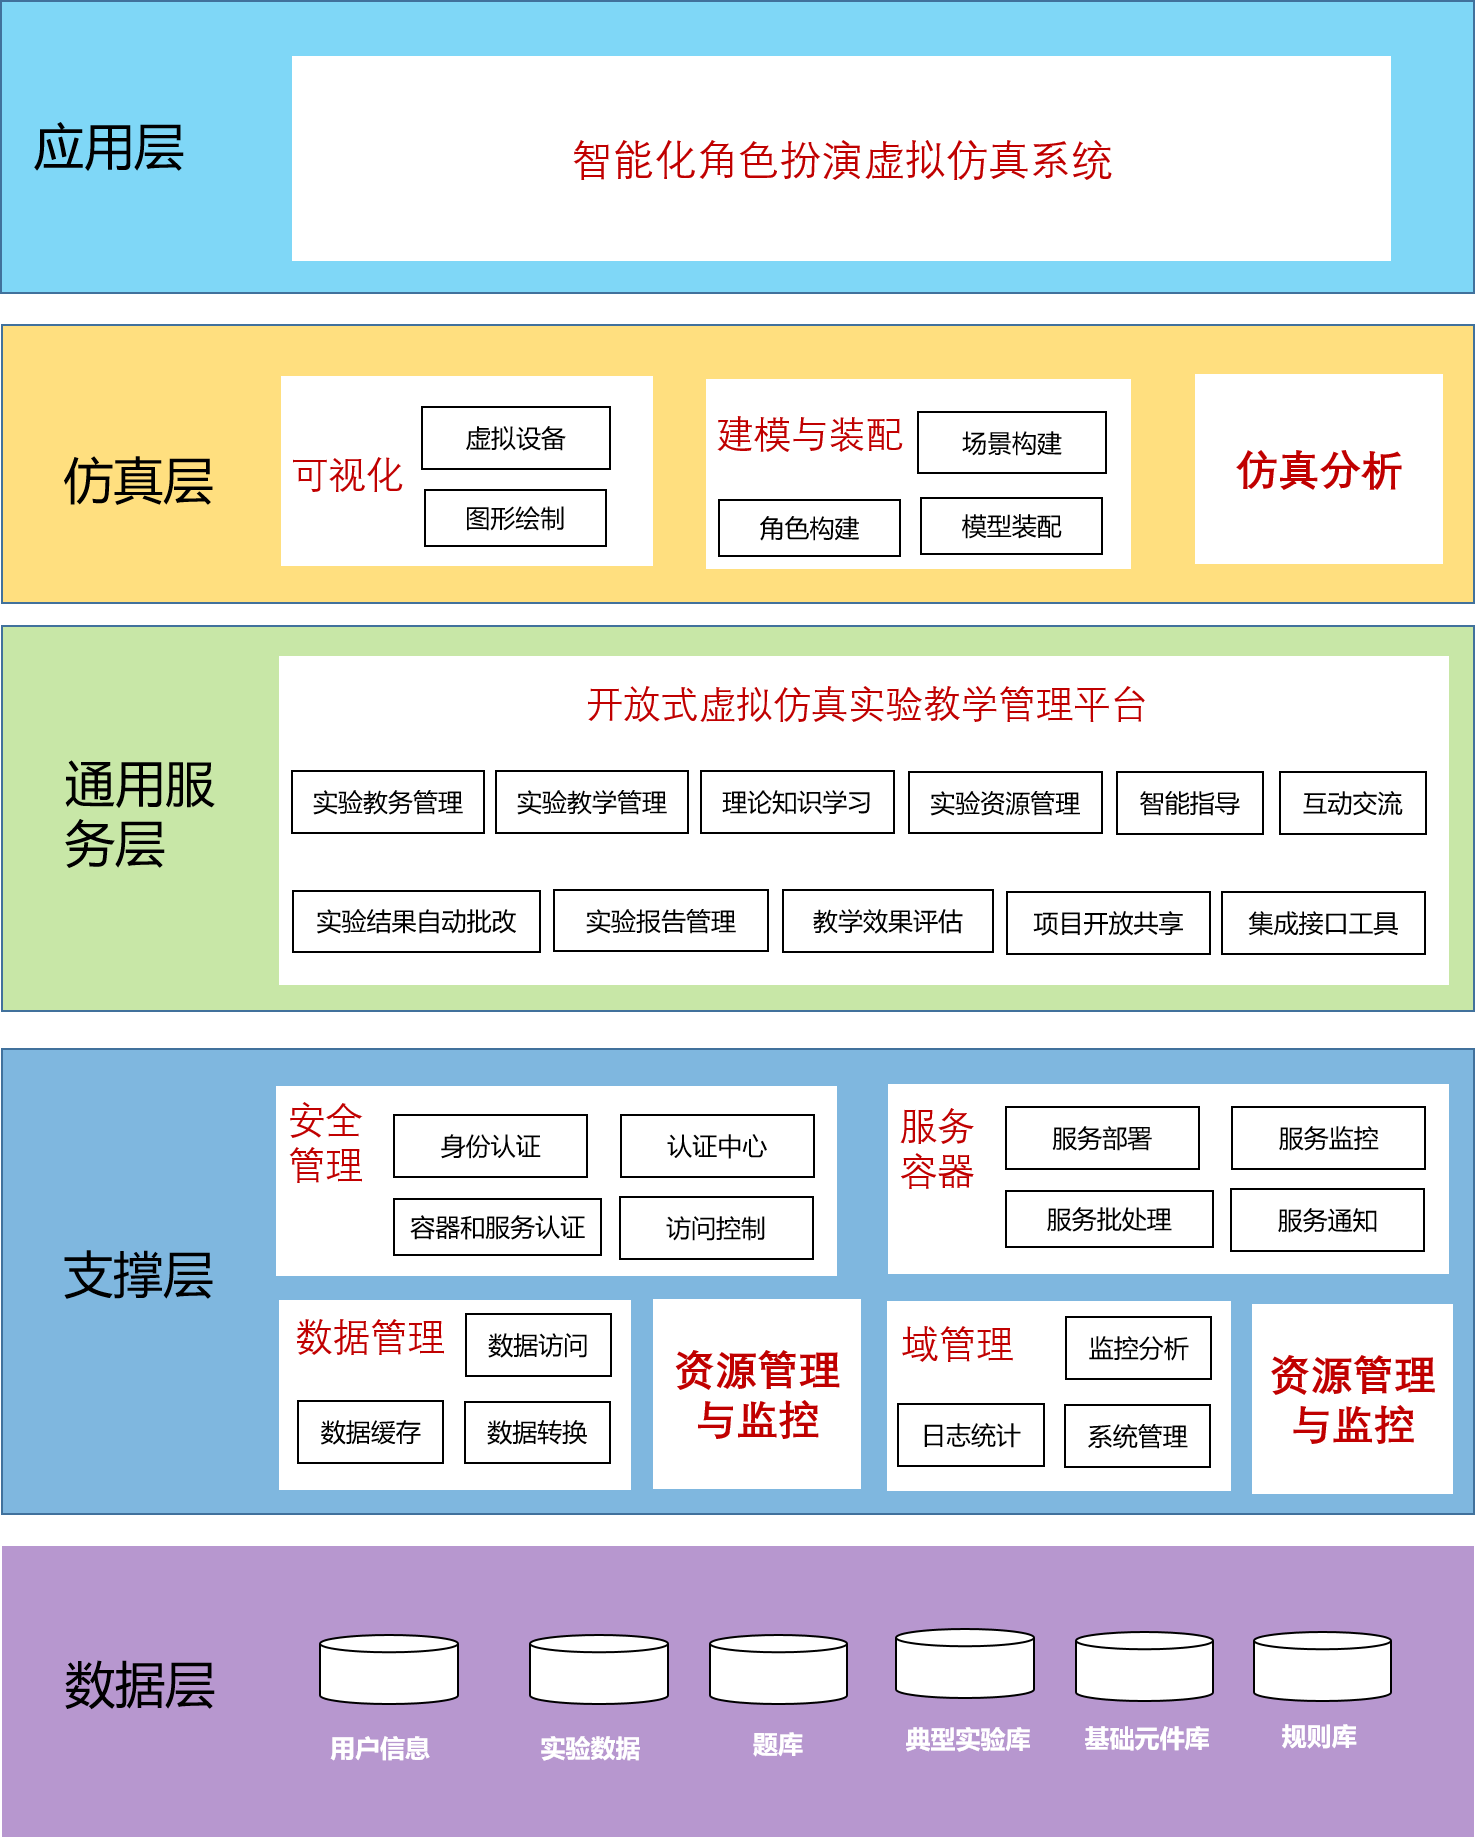
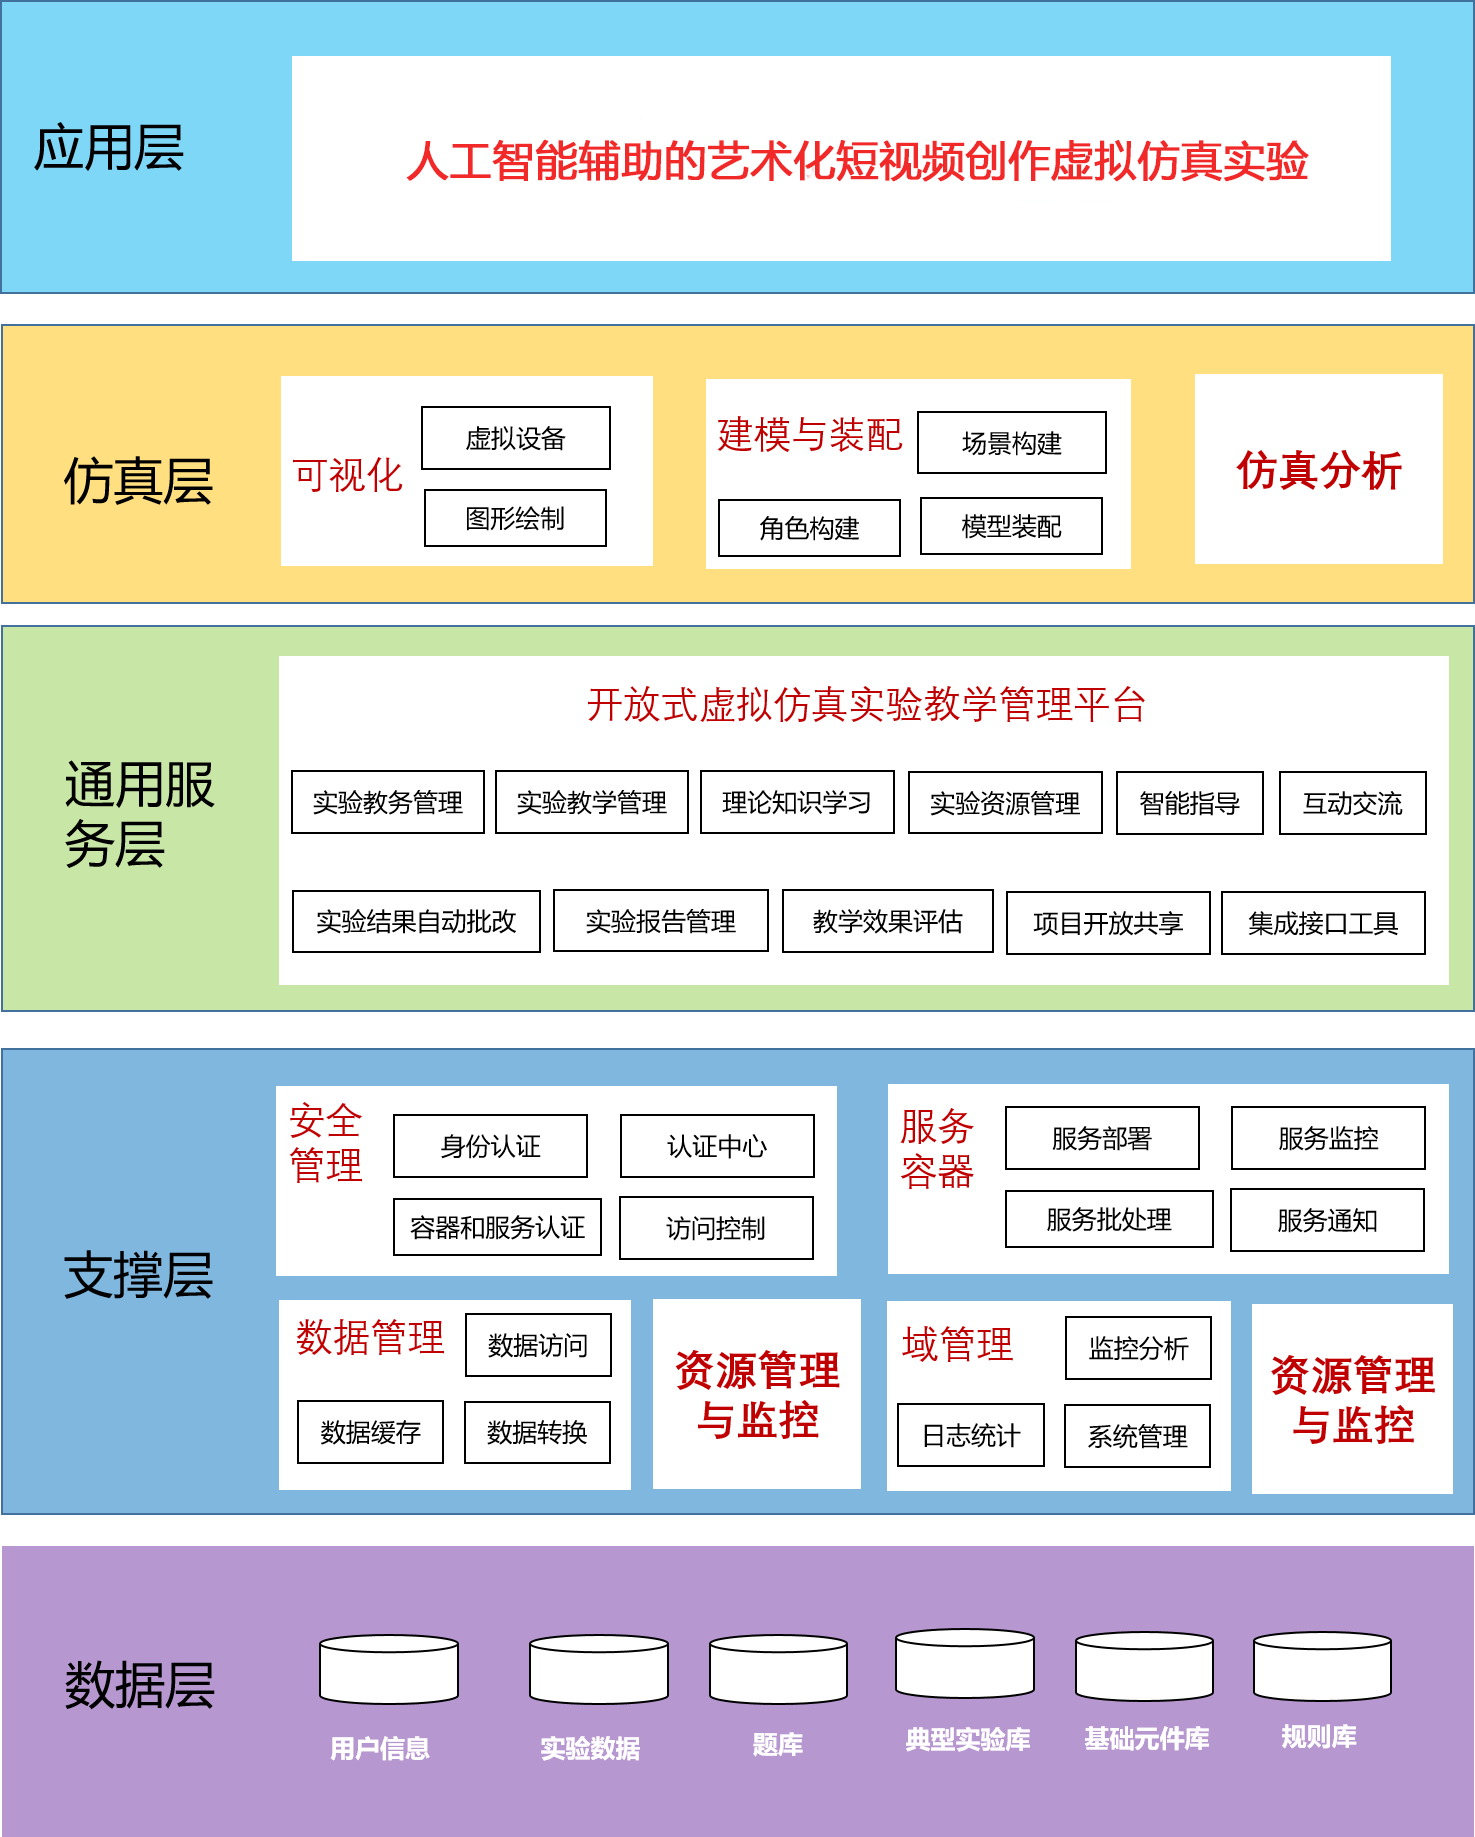
third update

Changed region(s): [[0.2807, 0.0621, 0.9044, 0.1241]]

diff --git a/xmts.html b/xmts.html
@@ -41,7 +41,6 @@
                     <li><a href="wlxg.html">网络相关要求</a></li>                    
                     <li><a href="xtjg.html">架构及研发技术</a></li>
                     <li><a href="fwjh.html">持续服务计划</a></li>
-                    <li><a>教学体系</a></li>
                 </ul>
             </nav>
         </header>        
@@ -50,33 +49,15 @@
             <div class="container">
                 <h3>（1）实验方案设计思路：</h3>
                 <p>本实验教学项目在方案设计上具有如下特色：</p>
-                <p>1. 精准掌握教学中的“痛点”，坚持“能实不虚”的虚拟仿真原则</p>
-                <p>“角色扮演”这项活动过去是比较小众的亚文化现象，但目前在年轻人中正变得越来越流行，年轻人在这些活动中会展示本国、本地区的文化传统和生活习惯。从国内的角度，这有利于浙江省这个传统文化保护比较完善的地方的文化传播和影响扩散；从国际的角度，这是一个向世界展示中国传统文化和现代生活的一个有效方式。正如游戏“模拟人生”，每个人在现实都有自己的“角色”，“角色扮演”这些活动如果以传统的方式进行，需要以极高的成本制作场景，玩家也需要花费不小的成本制作人物角色，而虚拟仿真技术可以有效地解决上述“痛点”，而且“角色扮演”活动中涉及的场景设计、角色设计、虚拟拍摄、智能剪辑等知识和流程在数字媒体艺术专业的多门课程，比如游戏设计、拍摄基础等等，都有广泛的应用。</p>
-                <p>2. 本虚拟仿真项目可以做到线上线下“虚实结合”，坚持“产学研”的原则</p>
-                <p>本项目提供的“素材管理”模块不但允许对虚拟仿真系统生成的素材进行管理，更是允许学生上传线下搜集和拍摄的素材。通过“智能剪辑”模块的素材加工和素材剪辑，可以将线上线下两种来源的素材进行整合，实现正在的“虚实结合”。</p>
-                <p>本项目在实现角色扮演虚拟仿真实验教学这个目标的同时，也把“产学研”作为本项目一个重要实现原则。具体地说，本实验教学项目可以孵化为一个具有经济价值的IT项目，可以成为一个集短视频教授、创作与分享的一个平台。</p>
-                <p>3. 采用先进的学习理论、教学理念</p>
-                <p>从本质而言，本项目是基于“建构主义学习理论”学生为中心设计的。简单而言，建构主义学习观认为学习是一个意义建构的过程，学习者通过新知识经验的相互作用，来形成、丰富和调整自己的认知结构的过程。本系统正是建立在学生已有角色扮演理论知识的基础上，通过学生在虚拟环境中将这些理论知识“学以致用”，将知识纳入自己的认知结构之中并赋予新的意义，从而完成对于角色扮演理论的内化。</p>
-                <p>此外，本项目基于知名教育学家布鲁姆“学习目标分类学说”设计了循序渐进的学习过程。布鲁姆认为学习在“认知”维度上可以由低到高划分为“知识”、“了解”、 “应用”、“分析”、“综合”、“评价”六个层次，高层次的学习总是发生在低层次学习的基础之上。根据这一被教育界广泛认同的理论，我们设计了本项目的四大模块: “理解”、“应用”、“创作”、“反思”。</p>
+                <p>本实验教学项目以浙江工商大学艺术设计专业目前的规模和学科建设提升的实际需求为基础，针对目前数字媒体专业教学在具体操作、创作时效性、实验技术革新、实验教学覆盖面等方面的局限性进行突破，体现了符合当下时代发展与教学实践需求的媒体融合思维与技术创新观念。</p>
+                <p>本实验教学项目充分引入当下先进的人工智能、大数据、云计算、快速动画制作、VR虚拟现实和虚拟仿真等新技术，搭建相关的素材库和案例库，采用先进的在线实时互动教学手段，构建了在线视频制作与发布虚拟仿真专业实验教学实训平台。</p>
+                
                 <h3>（2）教学方法创新：</h3>
-                <p>1. 优质的情景式教学：</p>
-                <p>虚拟仿真技术的一大特点是为学生提供情景式的教学环境，本虚拟仿真系统为角色扮演中的场景设计、角色设计、虚拟拍摄三个方面提供了内容丰富、品质卓越的专项训练。</p>
-                <p>2. 可行的尝试教学：</p>
-                <p>学生在系统提供的自由、开放式环境中不断地探索和尝试，系统会提供恰当的反馈，协助学生学习。在这个过程中，学生不断地体会到学习的乐趣，潜移默化的学习相关知识点。</p>
-                <p>3. 有效的比较教学：</p>
-                <p>此外，本项目基于知名教育学家布鲁姆“学习目标分类学说”设计了循序渐进的学习过程。布鲁姆认为学习在“认知”维度上可以由低到高划分为“知识”、“了解”、 “应用”、“分析”、“综合”、“评价”六个层次，高层次的学习总是发生在低层次学习的基础之上。根据这一被教育界广泛认同的理论，我们设计了本项目的四大模块: “理解”、“应用”、“创作”、“反思”。</p>
+                <p>本实验教学项目将在线教学和自主实验操作相结合，通过虚拟命题作业引导学生在线完成一个或一系列视频内容的制作与发布。数字媒体创作相关实验技术的引入和应用包括：基于全媒体素材平台和人工智能大数据云平台的虚拟视频创作实验实训；可视化数据短视频制作与动态新闻现场还原和快速动画制作；基于大数据分析系统应用于视频内容发布后的传播效果评定。</p>
                 <h3>（3）评价体系创新：</h3>
-                <p>1. 评价内容更全面</p>
-                <p>在传统的教学中，教师很难掌握学生的学习过程数据，教师很难对学生的学习过程给出评价。通过虚拟仿真实验这种教学方式，学生的所有操作流程和数据都有了记录，教师对学生的评价内容就更全面、更准确了。</p>
-                <p>2. 评价目标更明确</p>
-                <p>本虚拟仿真项目提供的专项练习和综合实践场景都是限定的，尽管在传统的教学过程中，教师也可以对学生的练习和实践场景进行说明，但受限于人力、物理和环境，学生往往把项目局限在自己生活的小圈子中，缺乏大的格局。通过虚拟仿真实验，一方面可以提供大格局的实践场所，另一方面给学生设定的目标也更明确了。</p>
-                <p>3. 评价过程更快捷</p>
-                <p>本系统大量采用流程化、自动化技术，对学生的操作过程和操作结果可以实施的给出评价和反馈，更有利于学生的学习。教师也可以不受空间、时间的制约，访问学生的操作数据，便于给出成绩。</p>
+                <p>本实验教学项目一改传统实验教学课程以实验报告为主的实验评价体系，在考核评定过程中对学生的基础知识掌握情况、实验成果水平、实验作品传播效果分析、团队协作情况及个人实验报告等内容进行综合考评。并创新性地加入了针对使用多样化制作手段的加分项，鼓励学生进行课程要求以外的其他实践技能的锻炼。</p>
                 <h3>（4）对传统教学的延伸与拓展:</h3>
-                <p>1. 完善传统教学</p>
-                <p>本虚拟仿真实验并不是完全取代传统的教学方式，而是做到“线上线下”的有效结合：线上教学节约空间、时间，物力、人力；线下教学有利于团队沟通，培养协作精神。</p>
-                <p>2. 增强教师能力</p>
-                <p>大数据、人工智能、移动互联网等技术对传统教学方式构成了极大的挑战，但这也意味着机遇。教师充分利用这些技术，可以更容易的把学生吸引到学习上面，充分发挥学生的积极性。</p> 
+                <p>通过本实验教学项目的建设实施，在传统实验教学的延伸与拓展上着重加强建设一批新闻传播学科新兴的实验教学项目，例如数字新媒体实务、数字广播电影电视实务、可视化数据新闻与虚拟动态新闻现场还原、大数据在新闻实务中的应用、基于大数据的传播效果测评和相关传媒实务中的应用、舆情收集与分析、虚拟节目运行与传播效果评估、融合媒体实务与全媒体实践等。依托本次项目建设，使学生通过学习实训完成专业的、原创的各类视频媒体内容的制作与输出。实验教学内容以数字媒体专业为核心，同时面向全国其他相关专业进行多学科多专业联动，推送优秀的原创视频作品辐射到科技文教等多领域，并促进国际交流，为下一步建设国际化开放式虚拟仿真实验教学示范中心做准备。</p>
             </div>                    
         </section>
         <footer>

diff --git a/fwjh.html b/fwjh.html
@@ -41,7 +41,6 @@
                     <li><a href="wlxg.html">网络相关要求</a></li>                    
                     <li><a href="xtjg.html">架构及研发技术</a></li>
                     <li><a href="fwjh.html">持续服务计划</a></li>
-                    <li><a>教学体系</a></li>
                 </ul>
             </nav>
         </header>        

diff --git a/index.html b/index.html
@@ -41,7 +41,6 @@
                     <li><a href="wlxg.html">网络相关要求</a></li>                    
                     <li><a href="xtjg.html">架构及研发技术</a></li>
                     <li><a href="fwjh.html">持续服务计划</a></li>
-                    <li><a>教学体系</a></li>
                 </ul>
             </nav>
         </header>        

diff --git a/jxtd.html b/jxtd.html
@@ -41,7 +41,6 @@
                     <li><a href="wlxg.html">网络相关要求</a></li>                    
                     <li><a href="xtjg.html">架构及研发技术</a></li>
                     <li><a href="fwjh.html">持续服务计划</a></li>
-                    <li><a>教学体系</a></li>
                 </ul>
             </nav>
         </header>        

diff --git a/wlxg.html b/wlxg.html
@@ -41,7 +41,6 @@
                     <li><a href="wlxg.html">网络相关要求</a></li>                    
                     <li><a href="xtjg.html">架构及研发技术</a></li>
                     <li><a href="fwjh.html">持续服务计划</a></li>
-                    <li><a>教学体系</a></li>
                 </ul>
             </nav>
         </header>        

diff --git a/xmsb.html b/xmsb.html
@@ -41,7 +41,6 @@
                     <li><a href="wlxg.html">网络相关要求</a></li>                    
                     <li><a href="xtjg.html">架构及研发技术</a></li>
                     <li><a href="fwjh.html">持续服务计划</a></li>
-                    <li><a>教学体系</a></li>
                 </ul>
             </nav>
         </header>        

diff --git a/xtjg.html b/xtjg.html
@@ -41,7 +41,6 @@
                     <li><a href="wlxg.html">网络相关要求</a></li>                    
                     <li><a href="xtjg.html">架构及研发技术</a></li>
                     <li><a href="fwjh.html">持续服务计划</a></li>
-                    <li><a>教学体系</a></li>
                 </ul>
             </nav>
         </header>        
